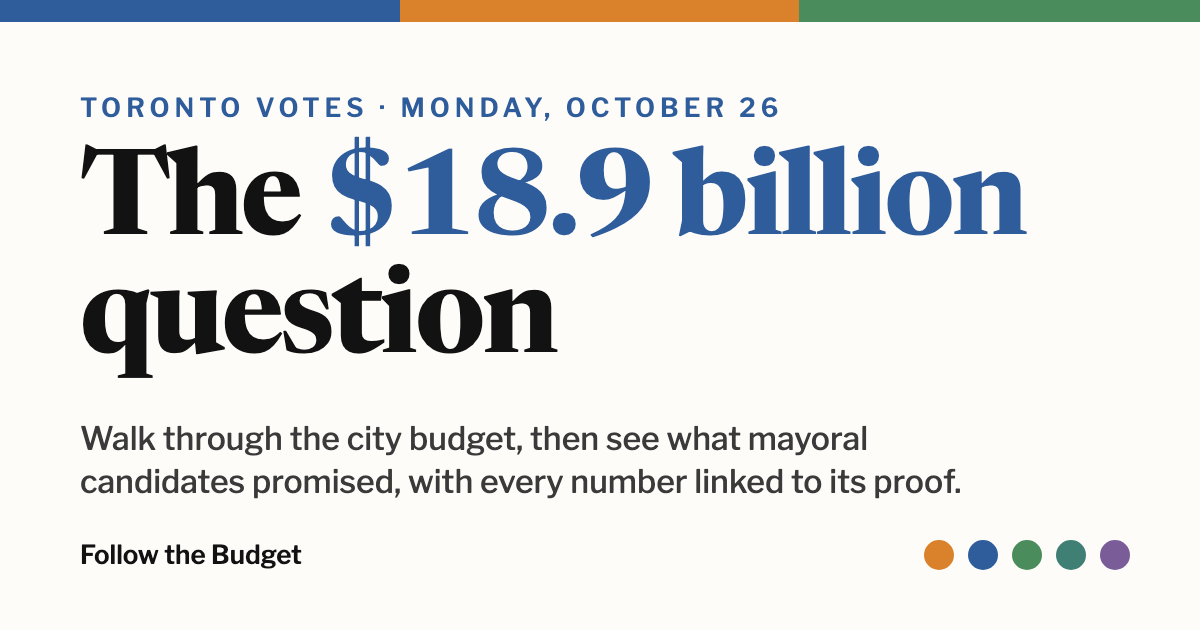
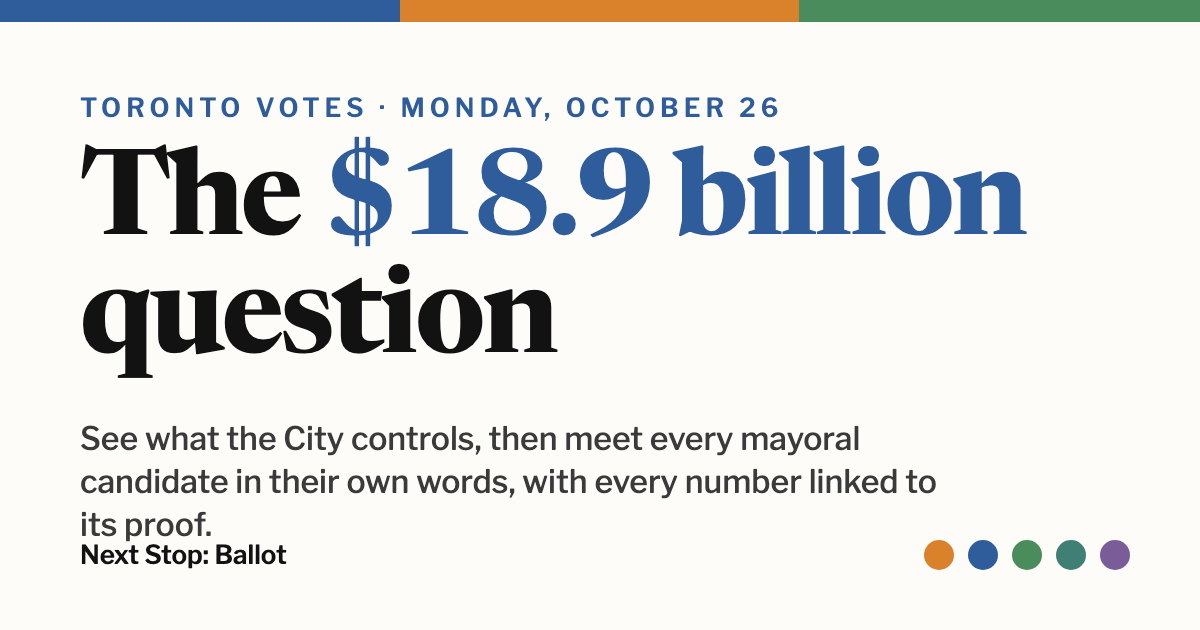
Rename the site to Next Stop: Ballot

Changed region(s): [[0.0617, 0.6635, 0.8017, 0.7841], [0.0617, 0.8143, 0.2467, 0.9048]]

diff --git a/site/src/routes/vote/+page.svelte b/site/src/routes/vote/+page.svelte
@@ -105,7 +105,7 @@
 		const text = "I walked through who's running for mayor of Toronto, and what the City actually controls. Election day is Monday, October 26.";
 		const url = location.origin + '/vote/';
 		try {
-			if (navigator.share) return await navigator.share({ title: 'Follow the Budget', text, url });
+			if (navigator.share) return await navigator.share({ title: 'Next Stop: Ballot', text, url });
 			await navigator.clipboard.writeText(`${text} ${url}`);
 			shared = 'Link copied.';
 		} catch { /* dismissed */ }
@@ -113,7 +113,7 @@
 </script>
 
 <svelte:head>
-	<title>Who's running for mayor, and what the City controls · Toronto votes October 26 · Follow the Budget</title>
+	<title>Who's running for mayor, and what the City controls · Toronto votes October 26 · Next Stop: Ballot</title>
 	<meta name="description" content="Ride a streetcar through Toronto's mayoral race: what the City controls, what changed, and every candidate in their own words, with proof." />
 	<meta property="og:title" content="The {headline} question" />
 	<meta property="og:description" content="Toronto votes Monday, October 26. Meet every mayoral candidate in their own words, with every number linked to its proof." />

diff --git a/docs/superpowers/mockups/vote-walk.html b/docs/superpowers/mockups/vote-walk.html
@@ -123,7 +123,7 @@
 <body>
 <div class="mock">MOCKUP · candidate names, quotes and promises are placeholders · ward shapes and budget numbers are real</div>
 <div class="ribbon"></div>
-<div class="mast"><b>Follow the Budget</b><nav><span class="on">2026 Election</span><span>Scarborough</span><span>Toronto</span><span>Ontario</span></nav></div>
+<div class="mast"><b>Next Stop: Ballot</b><nav><span class="on">2026 Election</span><span>Scarborough</span><span>Toronto</span><span>Ontario</span></nav></div>
 
 <div class="passport">YOUR WALK <i data-p="1"></i><i data-p="2"></i><i data-p="3"></i><i data-p="4"></i><i data-p="5"></i></div>
 <section class="hall">

diff --git a/site/src/routes/sources/+page.svelte b/site/src/routes/sources/+page.svelte
@@ -23,8 +23,8 @@
 </script>
 
 <svelte:head>
-	<title>Sources and methods · Follow the Budget</title>
-	<meta name="description" content="Every dataset behind Follow the Budget, how we grouped spending into categories, and what we know we can't show yet." />
+	<title>Sources and methods · Next Stop: Ballot</title>
+	<meta name="description" content="Every dataset behind Next Stop: Ballot, how we grouped spending into categories, and what we know we can't show yet." />
 </svelte:head>
 
 <div class="wrap page">

diff --git a/site/src/routes/+page.svelte b/site/src/routes/+page.svelte
@@ -132,7 +132,7 @@
 </script>
 
 <svelte:head>
-	<title>Follow the Budget: where Scarborough’s money goes</title>
+	<title>Next Stop: Ballot · where Scarborough’s money goes</title>
 	<meta name="description" content="A walk through Scarborough showing how the City of Toronto and the Province of Ontario spend public money, and who decides. Every number is sourced." />
 </svelte:head>
 

diff --git a/site/src/routes/vote/mayor/+page.svelte b/site/src/routes/vote/mayor/+page.svelte
@@ -12,7 +12,7 @@
 </script>
 
 <svelte:head>
-	<title>Every candidate for mayor · Toronto 2026 · Follow the Budget</title>
+	<title>Every candidate for mayor · Toronto 2026 · Next Stop: Ballot</title>
 	<meta name="description" content="Everyone on Toronto's 2026 mayoral ballot, in ballot order, with their campaign links and published promises." />
 </svelte:head>
 

diff --git a/site/src/routes/explore/budget/+page.svelte b/site/src/routes/explore/budget/+page.svelte
@@ -55,7 +55,7 @@
 </script>
 
 <svelte:head>
-	<title>Explore the budget · Follow the Budget</title>
+	<title>Explore the budget · Next Stop: Ballot</title>
 	<meta name="description" content="Tap through Ontario's, Toronto's and Scarborough's budgets, from the big categories down to individual programs." />
 </svelte:head>
 

diff --git a/site/src/routes/people/+page.svelte b/site/src/routes/people/+page.svelte
@@ -14,7 +14,7 @@
 </script>
 
 <svelte:head>
-	<title>Who's responsible · Follow the Budget</title>
+	<title>Who's responsible · Next Stop: Ballot</title>
 	<meta name="description" content="The people who decide how Scarborough's public money is spent, with their recorded votes and public statements." />
 </svelte:head>
 

diff --git a/site/src/routes/+layout.svelte b/site/src/routes/+layout.svelte
@@ -32,7 +32,7 @@
 </div>
 
 <header class="masthead">
-	<a class="name" href="/vote/">Follow the Budget</a>
+	<a class="name" href="/vote/">Next Stop: Ballot</a>
 	<nav class="sans" aria-label="Main">
 		{#each nav as [href, label]}
 			<a {href} aria-current={page.url.pathname === href ? 'page' : undefined}>{label}</a>

diff --git a/site/src/routes/glossary/+page.svelte b/site/src/routes/glossary/+page.svelte
@@ -5,7 +5,7 @@
 </script>
 
 <svelte:head>
-	<title>Glossary · Follow the Budget</title>
+	<title>Glossary · Next Stop: Ballot</title>
 	<meta name="description" content="Budget jargon explained in plain language." />
 </svelte:head>
 
